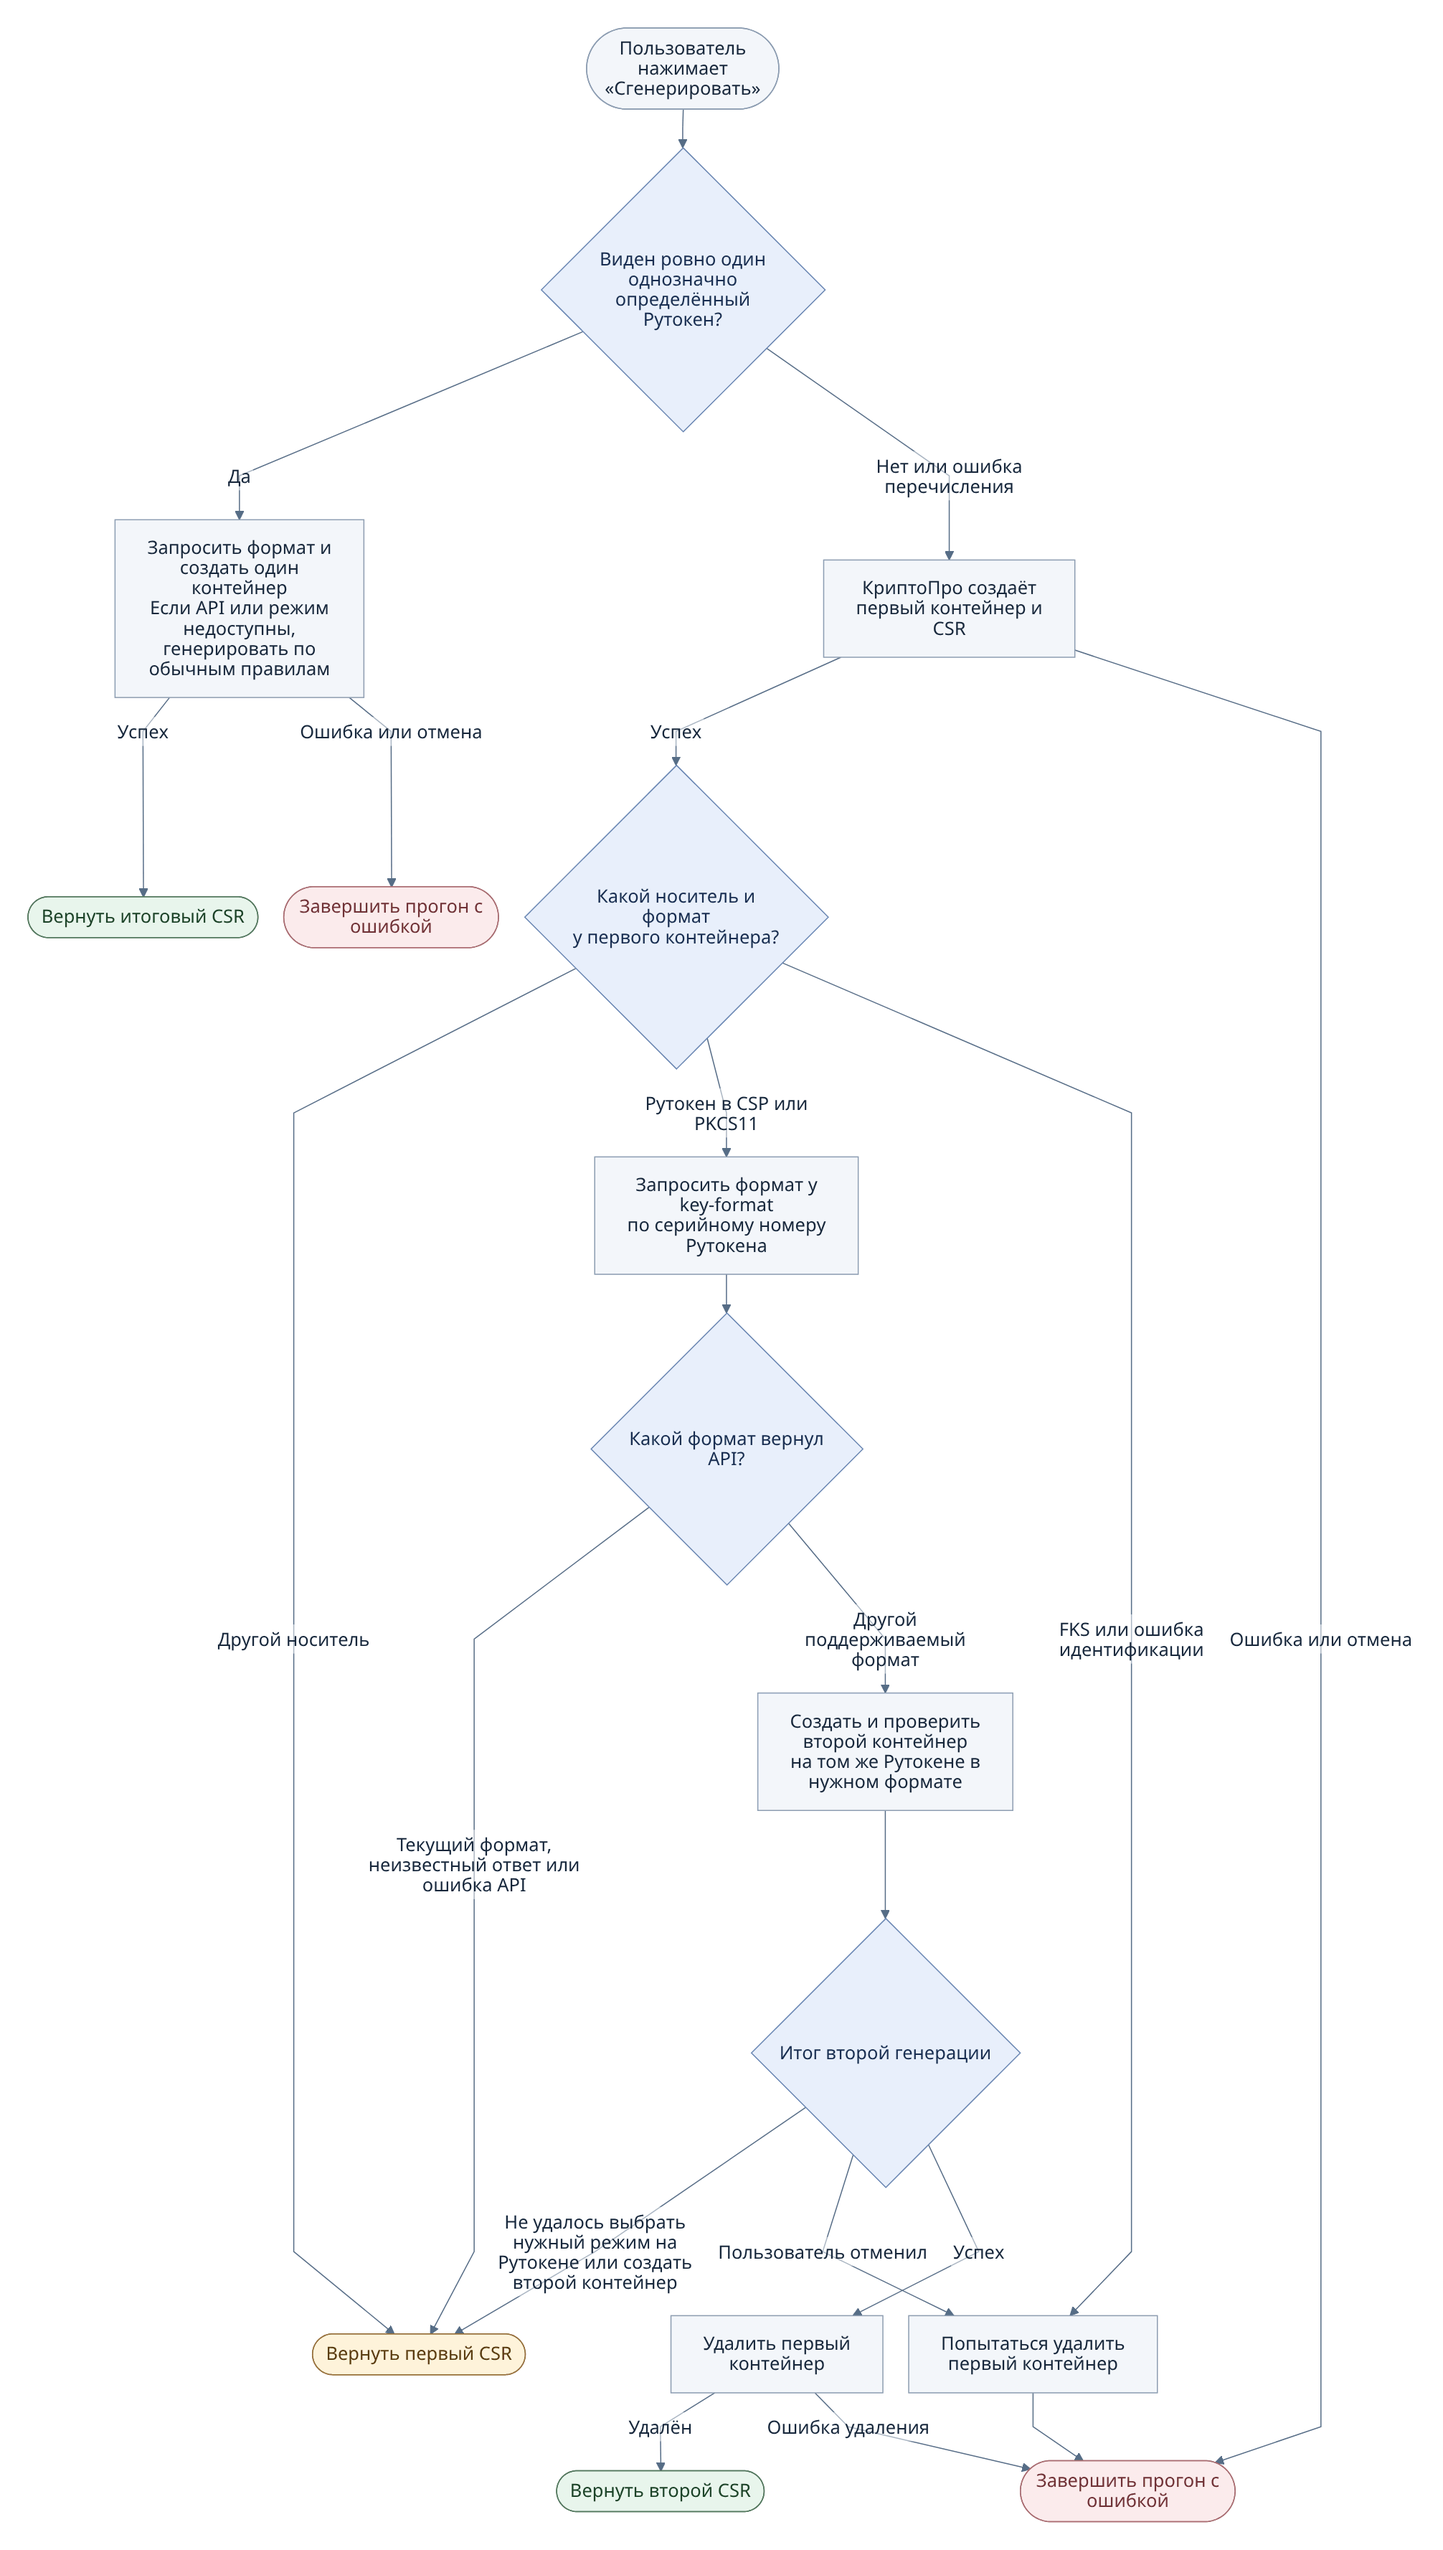
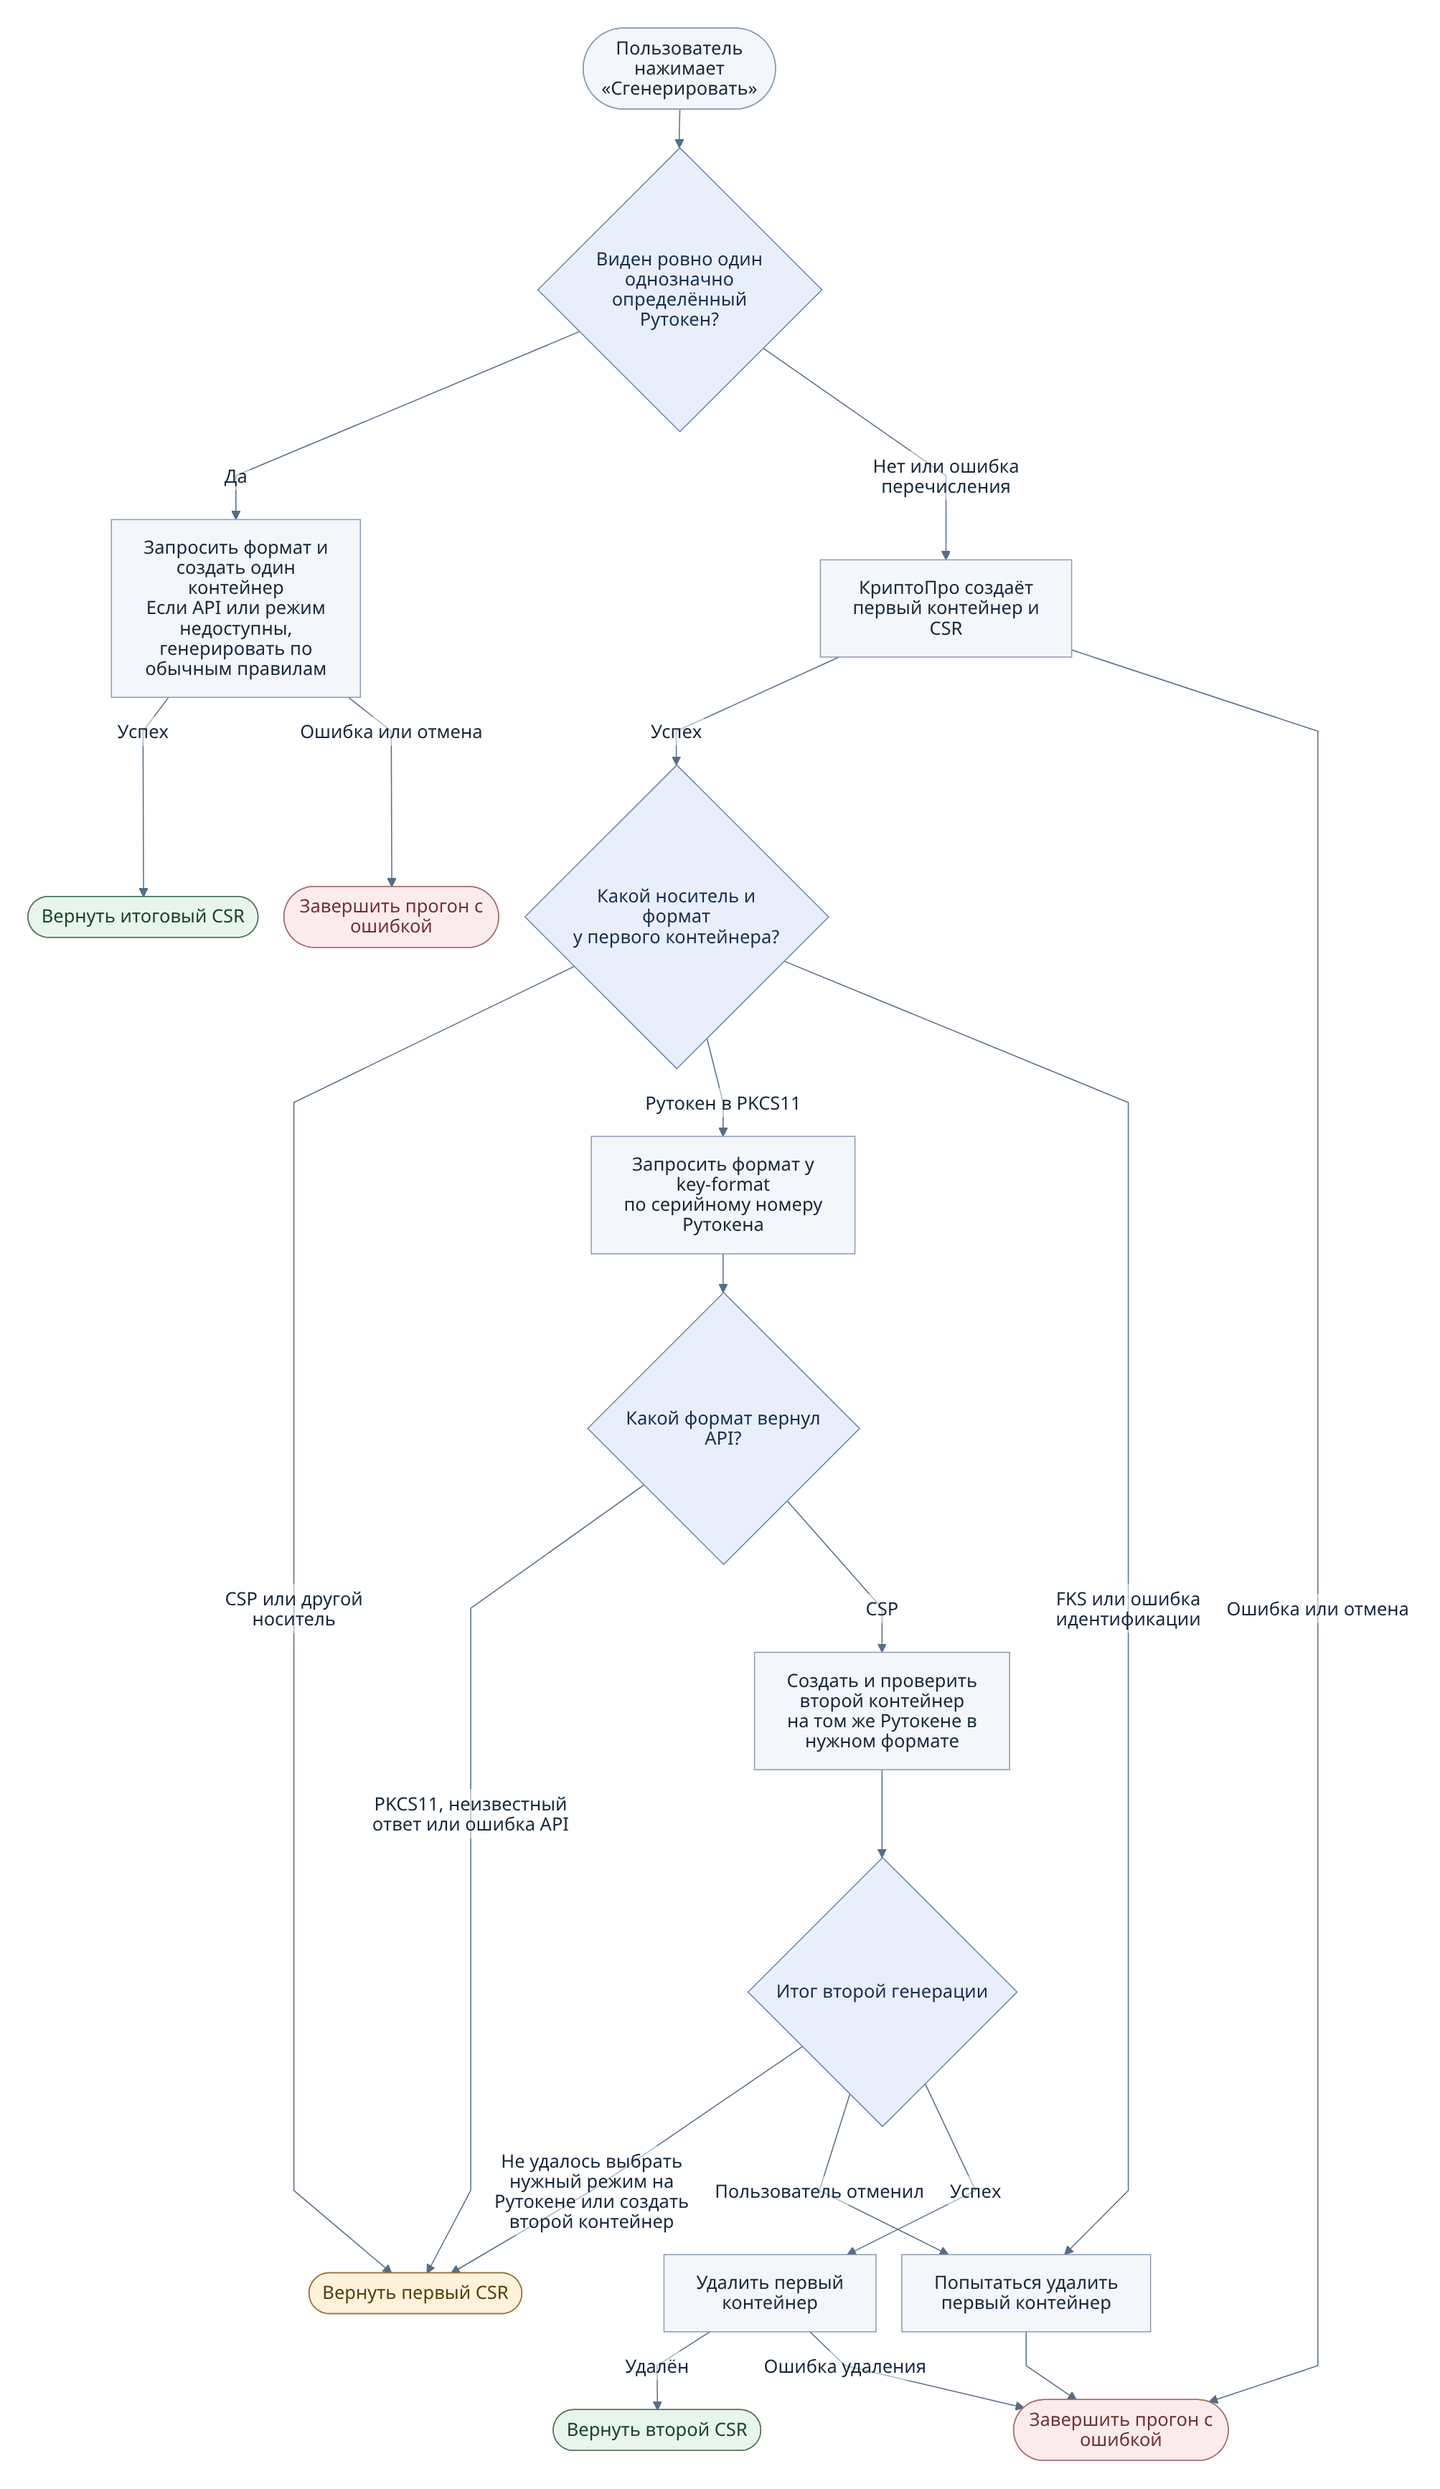
Return the first CSR immediately when its container uses CSP

diff --git a/reissue/index.html b/reissue/index.html
@@ -5,7 +5,7 @@
     <meta name="viewport" content="width=device-width, initial-scale=1">
     <title>Как работает динамическая генерация ключей с получением формата ключа от API</title>
     <script src="https://cryptopro.ru/sites/default/files/products/cades/cadesplugin_api.js"></script>
-    <script type="module" src="./page.mjs?v=27"></script>
+    <script type="module" src="./page.mjs?v=28"></script>
     <style>
         body { font: 1rem system-ui, sans-serif; max-width: 56rem; margin: 2rem auto; padding: 0 1rem; }
         details { margin-top: 1rem; }
@@ -39,7 +39,7 @@
                         <option value="error">Ошибка HTTP 503</option>
                     </select>
                 </label>
-                <p>Если заранее определён один Рутокен, стенд запрашивает формат до генерации. С несколькими носителями сначала выберите токен в КриптоПро. Чтобы проверить вторую генерацию, выберите режим, отличный от ответа мока.</p>
+                <p>Если заранее определён один Рутокен, стенд запрашивает формат до генерации. С несколькими носителями сначала выберите токен в КриптоПро. Чтобы проверить вторую генерацию, выберите PKCS11 на Рутокене и задайте ответ мок API CSP.</p>
                 <button type="button" id="readers">Показать считыватели</button>
                 <button type="button" id="cleanup" disabled>Удалить тестовые контейнеры</button>
             </fieldset>
@@ -47,10 +47,10 @@
     </form>
     <details>
         <summary>Схема генерации ключей</summary>
-        <p><a href="./reissue-flow.png?v=8">Открыть схему в полном размере</a></p>
+        <p><a href="./reissue-flow.png?v=9">Открыть схему в полном размере</a></p>
         <p class="flow-diagram-hint">Прокрутите схему по горизонтали, чтобы увидеть все ветки.</p>
         <div class="flow-diagram" tabindex="0" role="region" aria-label="Блок-схема динамической генерации ключей">
-            <img src="./reissue-flow.png?v=8" width="2012" height="3554" loading="lazy" alt="Блок-схема выбора формата ключа. Если заранее определён один Рутокен, стенд запрашивает формат и сразу создаёт итоговый контейнер. Если API или нужный режим недоступны, стенд выполняет одну генерацию по обычным правилам. Если носитель заранее выбрать нельзя, КриптоПро сначала создаёт первый контейнер. Для Рутокена стенд запрашивает формат и при необходимости создаёт второй контейнер, проверяет его и удаляет первый.">
+            <img src="./reissue-flow.png?v=9" width="2007" height="3470" loading="lazy" alt="Блок-схема выбора формата ключа. Если заранее определён один Рутокен, стенд запрашивает формат и сразу создаёт итоговый контейнер. Если API или нужный режим недоступны, стенд выполняет одну генерацию по обычным правилам. Если носитель заранее выбрать нельзя, КриптоПро сначала создаёт первый контейнер. Для CSP возвращается первый CSR без вызова API. Если первый контейнер на Рутокене в PKCS11, стенд запрашивает формат и при необходимости создаёт второй контейнер, проверяет его и удаляет первый.">
         </div>
     </details>
     <h2>Журнал</h2>
